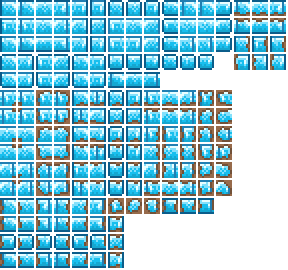
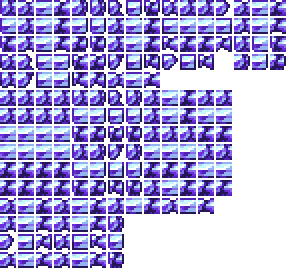
New Ice Stuff for new Polar summon build

diff --git a/Items/IceStuff/FrigidIce.cs b/Items/IceStuff/FrigidIce.cs
@@ -1,4 +1,3 @@
-
 using Microsoft.Xna.Framework;
 using Terraria;
 using Terraria.ID;
@@ -6,7 +5,7 @@ using Terraria.ModLoader;
 
 namespace SOTS.Items.IceStuff
 {
-	public class HardIceBrickTile : ModTile
+	public class FrigidIceTile : ModTile
 	{
 		public override void SetDefaults()
 		{
@@ -16,14 +15,14 @@ namespace SOTS.Items.IceStuff
 			Main.tileLighted[Type] = false;
 			minPick = 210;
 			dustType = 34;
-			drop = mod.ItemType("HardIceBrick");
+			drop = mod.ItemType("FrigidIceItem");
 			AddMapEntry(new Color(198, 249, 251));
 			soundType = 21;
 			soundStyle = 2;
 		}
 		public override bool CanExplode(int i, int j)
 		{
-			if (Main.tile[i, j].type == mod.TileType("HardIceBrickTile"))
+			if (Main.tile[i, j].type == mod.TileType("FrigidIce"))
 			{
 				return false;
 			}
@@ -34,26 +33,12 @@ namespace SOTS.Items.IceStuff
 			return false;
 		}
 	}
-	public class HardIceBrickWall : ModWall
+	public class FrigidIce : ModItem
 	{
 		public override void SetDefaults()
 		{
-			Main.wallHouse[Type] = false;
-			AddMapEntry(new Color(144, 181, 181));
-			dustType = 34;
-		}
-	}
-	public class HardIceBrickWallItem : ModItem
-	{
-		public override void SetStaticDefaults()
-		{
-			DisplayName.SetDefault("Hard Ice Wall Wall");
-		}
-
-		public override void SetDefaults()
-		{
-			item.CloneDefaults(ItemID.StoneWall);
-			item.createWall = ModContent.WallType<HardIceBrickWall>();
+			item.CloneDefaults(ItemID.StoneBlock);
+			item.createTile = ModContent.TileType<FrigidIceTile>();
 		}
 	}
 }
